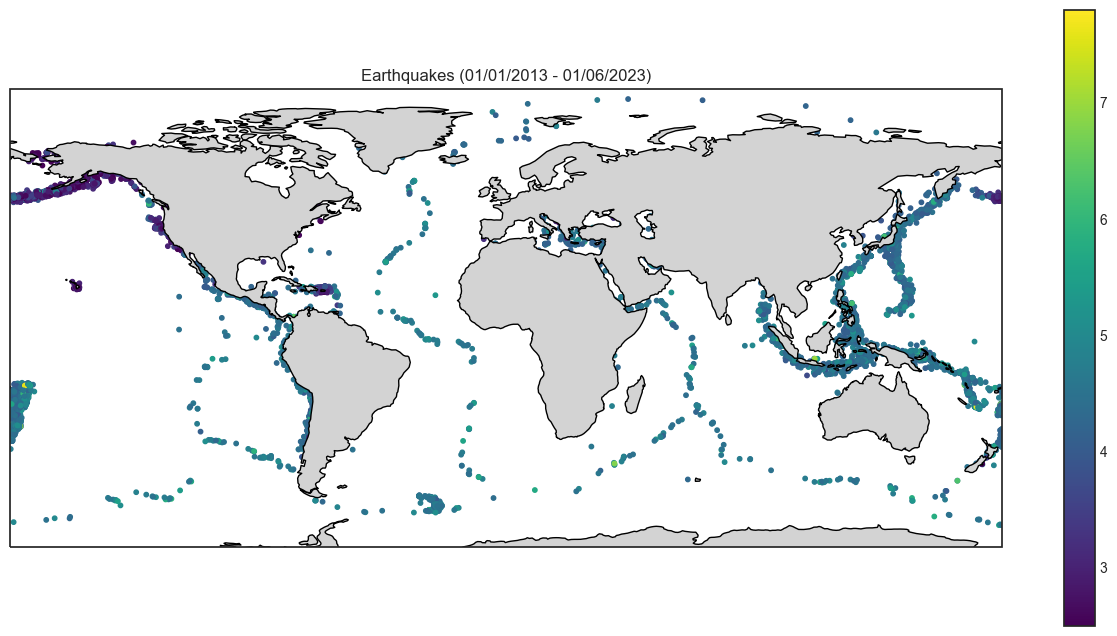
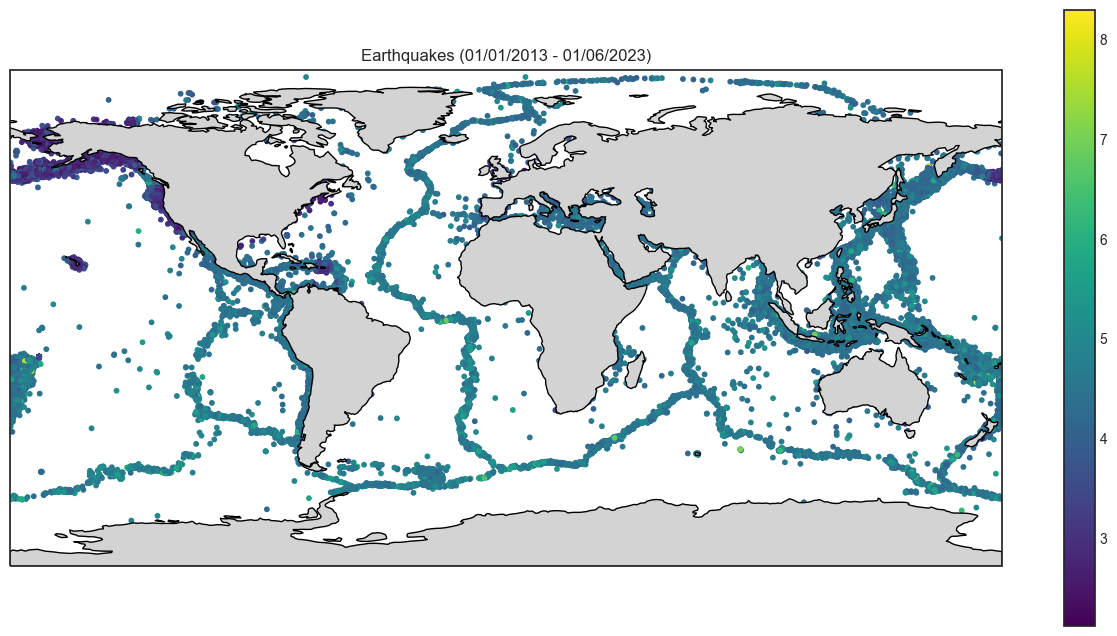
add documentation
fix typos

fix typos

update image for earthquakes ranging from 2013 to 2023

add info about the 3d web model

fix typos

add more info on LISA

diff --git a/README.md b/README.md
@@ -1,12 +1,10 @@
 # Project Task
 
-To identify spatial correlation and to detect siesmic swarms (if spatial correlation is positive)
-> Moran's I and LISA (Local Moran's I) both indicate a strong positive correlation
-
+The purpose of this project is to analyze spatial correlations in global earthquake data. By identifying patterns in seismic activity and detecting seismic swarms, we aim to better understand the factors that influence earthquake frequency and magnitude. This analysis could potentially inform strategies for earthquake preparedness and response. 
 
 ## Dataset Info:
 
-- This data set is taken from USGS(U.S Geological Survey). The USGS provides reliable scientific information to describe and understand the Earth; minimize loss of life and property from natural disasters; manage water, biological, energy, and mineral resources; and enhance and protect our quality of life.
+This data set is taken from USGS(U.S Geological Survey), USGS provides reliable scientific information/ data to describe and understand the Earth.
 - 10 years of earthquake data through out the globe (2013-2023)
 - Link to the website: https://earthquake.usgs.gov/earthquakes/feed/
 
@@ -16,19 +14,23 @@ To identify spatial correlation and to detect siesmic swarms (if spatial correla
 
 ## Analysis:
 
-- Based on data collected from Jan 2013 to Jun 2023, number of earthquakes we face yearly are roughly around 30,000. With 2018, recording the highest number of earthquakes close to 45,00 and 2013 being the lowest close to 20,000
-- The distribution of magnitude of earthquakes is bimodal with magnitude 2.8 and 4.7
-- In the past 10 years, Alaska alone has recorded more than 52,000 earthquakes, following Hawaii and Puerto Rico at around 20,000
-- If we only look at the earthquakes with magnitude greater than 4 than most earthquakes recorded are for Indonesia i.e. 16,000, followed by Japan and Papua New Guinea at 8,000
-- Overall while trying to check, if there was any local trend/relationship along the years vs number of earthquakes, there is no conclusive evidence (I guess that's a good thing)
-- But, the regions getting hit with higher magnitudes of earthquakes (greater than 4) do seem to getting fewer and fewer of such earthquakes as the years progress (Again, another good sign!)
+- Based on data collected from Jan 2013 to Jun 2023, number of earthquakes we face yearly are roughly around 30,000. The year of 2018 recorded highest number of earthquakes which was close to 45,000 whereas the year of 2013 recorded the lowest number close to 20,000.
+- The distribution of magnitude of earthquakes is bimodal with magnitudes 2.8 and 4.7
+- In the past 10 years, Alaska alone has recorded more than 52,000 earthquakes, followed by Hawaii and Puerto Rico at around 20,000 each.
+- If we only look at the earthquakes with magnitude greater than 4 than most earthquakes recorded are for Indonesia i.e. 16,000, followed by Japan and Papua New Guinea at 8,000 each.
+- Overall while trying to check if there was any local trend/relationship along the years vs number of earthquakes, there is no conclusive evidence (I guess that's a good thing)
+- But, the regions getting hit with higher magnitudes of earthquakes (greater than 4) do seem to getting fewer and fewer number of such earthquakes as the years progress (Again, another good sign!)
 - There is no monthly trend (or an earthquake season) where any regions got the most number of earthquakes.
-- While checking if there is a relationship between magnitude vs depth of the earthquakes there is a clear indication that earthquakes with magnitude lower than magnitude 3 don't originate lower than 300km from Earth's surface.
+- While checking if there is a relationship between magnitude vs depth of the earthquakes there is a clear indication that earthquakes with magnitude lower than magnitude 3 don't originate lower than 300km from Earth's surface (or maybe we are not able to detect those earthquakes with our current technology). 
+
+![3d-earth](https://github.com/parthshah231/earthquake_analysis/blob/master/README/3d_earth.png)
+
+- Above is a 3d model of earth to visualize the distribution of earthquakes globally (for the year for 2023). The model is built using the ThreeJS JavaScript library, which allows for the creation and display of animated 3D graphics in a web browser. The earthquake data used to populate this 3D model is fetched from a server using the Flask web framework.
 
 ## Spatial autocorrelation:
-- Spatial autocorrelation: measures and analyzes the degree of dependency among observations in a geographic space
-- Moran's I: measure of spatial autocorrelation, values can range from -1 (indicating perfect dispersion or negative spatial autocorrelation) to +1 (perfect correlation or positive spatial autocorrelation). A value close to 0 indicates a random spatial pattern. Positive spatial autocorrelation occurs where similar values occur near one another. This might be high house prices in one neighborhood tending to be near other high house prices. Negative spatial autocorrelation, by contrast, occurs where dissimilar values occur near one another.
-- Local Moran's I:  local measure of spatial autocorrelation, meaning it gives a value for each feature in the dataset, representing the level of spatial autocorrelation for that feature and its neighbors. The Local Moran's I identifies where clusters or spatial outliers are located and the type of cluster or spatial outlier (whether high-high, low-low, high-low, or low-high). The Local Moran's I (LISA) thus not only identifies significant spatial clusters or outliers but also classifies them into types.
+In this project, I have used two main statistical measures: Moran's I and Local Indicators of Spatial Association (LISA). These are methods for measuring spatial autocorrelation, which is the degree of dependency among observations in a geographic space.
+- Moran's I: It is a measure of spatial autocorrelation for which the values range from -1 (indicating perfect dispersion or negative spatial autocorrelation) to +1 (perfect correlation or positive spatial autocorrelation). A value close to 0 indicates a random spatial pattern. Positive spatial autocorrelation occurs where similar values occur near one another. This might be high house prices in one neighborhood tending to be near other high house prices. Negative spatial autocorrelation, by contrast, occurs where dissimilar values occur near one another.
+- Local Moran's I (LISA):  It is a local measure of spatial autocorrelation, meaning it gives a value for each feature in the dataset, representing the level of spatial autocorrelation for that feature and its neighbors. It identifies where clusters or spatial outliers are located and the type of cluster or spatial outlier (whether high-high, low-low, high-low, or low-high). Hence, it not only identifies significant spatial clusters or outliers but also classifies them into types.
 
 - Measures for the year of 2023 (so far):   \
 **Moran's I**: 0.7833756435758131           \
@@ -38,14 +40,30 @@ To identify spatial correlation and to detect siesmic swarms (if spatial correla
 
 ![Lisa quadrants](https://github.com/parthshah231/earthquake_analysis/blob/master/README/lisa_quadrants.png)
 
-- The quadrants represent the following:    \
-LH: Low values surrounded by high values    \
-HH: High values surrounded by high values   \
-LL: Low values surrounded by low values     \
-HL: High values surrounded by low values    \
+The quadrants represent the following:
+
+- LH: Low values surrounded by high values   
+- HH: High values surrounded by high values  
+- LL: Low values surrounded by low values    
+- HL: High values surrounded by low values   
+
 HH and LL are examples of positive spatial autocorrelation as you can see most of the values are clustered together in HH and LL quadrants.
 
 ![spatial autocorrelation](https://github.com/parthshah231/earthquake_analysis/blob/master/README/spatial_autocorrelation.png)
 
 - The above image shows the local spatial autocorrelation of the earthquake magnitude.
 - The red areas represent high values surrounded by high values (HH), and the blue areas represent low values surrounded by low values (LL).
+
+**Note:** Lisa considers the earthquake magnitudes in relation to their neighboring earthquakes and does not define a fixed threshold for what constitutes "high" or "low" magnitudes. The determination of high and low is relative to the context of neighboring magnitudes.
+
+![Earthquakes in 2023](https://github.com/parthshah231/earthquake_analysis/blob/master/README/earthquakes_2023.png)
+
+The above plot helps us verify the spatial correlation by Lisa.
+
+## Conclusions
+- Spatial autocorrelation analysis revealed that earthquake magnitude is positively correlated for the year 2023, with a Moran's I of 0.783 and a LISA of 0.7833. This could imply that seismic activities tend to occur in clusters rather than being randomly distributed. 
+- Furthermore, it is observed that areas with high magnitude earthquakes tend to be clustered together (HH), as do areas with low magnitude earthquakes (LL). This finding suggests the presence of seismic "hotspots" and "coldspots" which could be of interest for further study.
+
+## Further Implementation
+- I am planning to add filters for the web page, where user can filter the year and month to see the spread of earthquakes across the globe for a specific period. 
+- Make the 3d-globe more interactive as to each point or bar representing the earthquake should carry information such as magnitude of the earthquake, along with the location.
